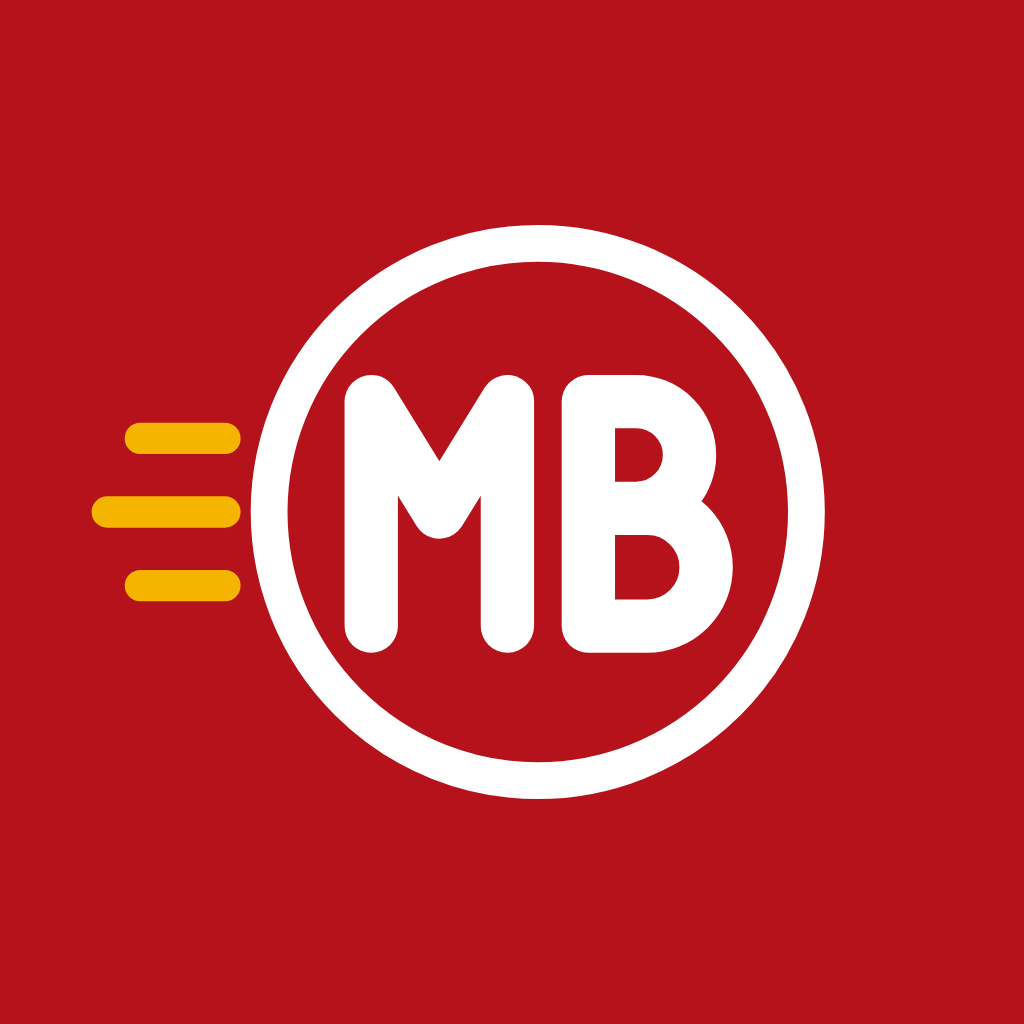
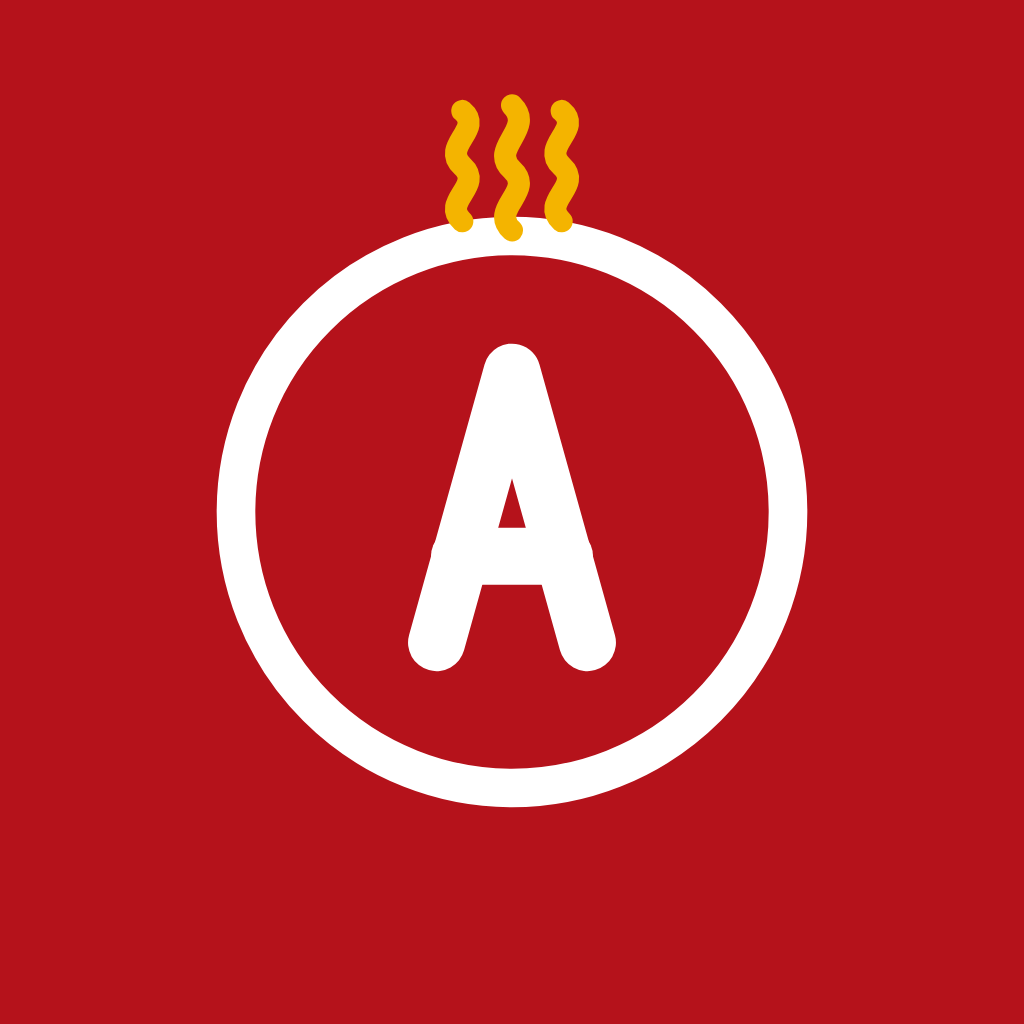
Marca do cliente: símbolo e logótipo da Cozinha da Alexandra
Sistema de marca (assinatura que se decompõe), desenhado em código:
- Símbolo: anel (tacho visto de cima) + monograma "A" + vapor dourado
  (comida quente de casa), substituindo o MB + linhas de velocidade.
- Logótipo horizontal "Cozinha da Alexandra" com "Alexandra" em
  destaque e "entregue por Manda Bué" como endosso discreto.
- Versões: ícone, ícone adaptativo Android (fundo/frente/mono),
  splash, favicon do cliente; peças em docs/marca.

Pipeline: gerar.py (SVG + lista.json) + render.js (Chromium/Playwright).
Assets do operador mantêm a marca MB, inalterados.

Claude-Session: https://claude.ai/code/session_012YAn7mGDrLwbXxtn7pEh3R

Changed region(s): [[0.0938, 0.0938, 0.8125, 0.8125], [0.5938, 0.7188, 0.625, 0.75], [0.5938, 0.25, 0.625, 0.2812]]

diff --git a/docs/marca/render.js b/docs/marca/render.js
@@ -1,0 +1,29 @@
+// Rasteriza os SVG de lista.json para PNG com o Chromium (transparência correta).
+const fs = require('fs');
+const path = require('path');
+const { chromium } = require('playwright');
+
+(async () => {
+  const lista = JSON.parse(fs.readFileSync('lista.json', 'utf8'));
+  const browser = await chromium.launch();
+  const page = await browser.newPage({ deviceScaleFactor: 1 });
+  for (const item of lista) {
+    const svg = fs.readFileSync(item.svg, 'utf8');
+    // Dimensões em px: 'tamanho' (quadrado) ou as do próprio SVG (logótipo 1600x480).
+    const m = svg.match(/width="(\d+)" height="(\d+)"/);
+    const w = item.tamanho || parseInt(m[1], 10);
+    const h = item.tamanho || parseInt(m[2], 10);
+    await page.setViewportSize({ width: w, height: h });
+    await page.setContent(
+      `<!doctype html><html><head><meta charset="utf-8"><style>
+        *{margin:0;padding:0}html,body{width:${w}px;height:${h}px;background:transparent}
+        svg{display:block;width:${w}px;height:${h}px}
+      </style></head><body>${svg}</body></html>`,
+      { waitUntil: 'networkidle' }
+    );
+    fs.mkdirSync(path.dirname(item.png), { recursive: true });
+    await page.screenshot({ path: item.png, omitBackground: true, clip: { x: 0, y: 0, width: w, height: h } });
+    console.log(item.png, `${w}x${h}`);
+  }
+  await browser.close();
+})();

diff --git a/docs/marca/gerar.py b/docs/marca/gerar.py
@@ -1,8 +1,12 @@
-# Marca Manda Bué: prato (anel) + monograma MB em traço contínuo + linhas de velocidade douradas.
-VERMELHO='#B5121B'; CARVAO='#1F1A17'; BRANCO='#FFFFFF'; DOURADO='#F4B400'
+# Marcas das apps.
+# Cliente — Cozinha da Alexandra: anel (tacho/prato visto de cima) + monograma "A"
+#   em traço contínuo + vapor dourado (comida quente de casa).
+# Operador — Manda Bué: anel + monograma "MB" + linhas de velocidade douradas (entrega).
+VERMELHO = '#B5121B'; CARVAO = '#1F1A17'; BRANCO = '#FFFFFF'; DOURADO = '#F4B400'; SUAVE = '#5F6368'
+
 
 def marca(anel=BRANCO, letras=BRANCO, linhas=DOURADO):
-    # tudo desenhado numa área de 1024, centrado em (512,512)
+    """Manda Bué (operador): anel + MB + linhas de velocidade. Área 1024, centro (512,512)."""
     return f'''
   <g fill="none" stroke-linecap="round" stroke-linejoin="round">
     <circle cx="540" cy="512" r="292" stroke="{anel}" stroke-width="40"/>
@@ -11,35 +15,66 @@ def marca(anel=BRANCO, letras=BRANCO, linhas=DOURADO):
     <path d="M108 432 H200 M72 512 H200 M108 592 H200" stroke="{linhas}" stroke-width="34"/>
   </g>'''
 
+
+def marca_alexandra(anel=BRANCO, letra=BRANCO, vapor=DOURADO):
+    """Cozinha da Alexandra (cliente): anel + "A" + vapor. Composição centrada em (512,512)."""
+    return f'''
+  <g fill="none" stroke-linecap="round" stroke-linejoin="round">
+    <circle cx="512" cy="512" r="300" stroke="{anel}" stroke-width="42"/>
+    <path d="M430 654 L512 360 L594 654" stroke="{letra}" stroke-width="62"/>
+    <path d="M455 560 H569" stroke="{letra}" stroke-width="62"/>
+    <path d="M458 196 C434 174 482 158 458 136 C434 114 482 96 458 76" stroke="{vapor}" stroke-width="24"/>
+    <path d="M512 206 C486 182 538 164 512 140 C486 116 538 96 512 70" stroke="{vapor}" stroke-width="24"/>
+    <path d="M566 196 C542 174 590 158 566 136 C542 114 590 96 566 76" stroke="{vapor}" stroke-width="24"/>
+  </g>'''
+
+
 def svg(conteudo, fundo=None, escala=1.0, tamanho=1024):
     f = f'<rect width="1024" height="1024" fill="{fundo}"/>' if fundo else ''
-    t = f'translate({512*(1-escala)} {512*(1-escala)}) scale({escala})'
+    t = f'translate({512 * (1 - escala)} {512 * (1 - escala)}) scale({escala})'
     return f'<svg xmlns="http://www.w3.org/2000/svg" width="{tamanho}" height="{tamanho}" viewBox="0 0 1024 1024">{f}<g transform="{t}">{conteudo}</g></svg>'
 
-def logotipo_horizontal(fundo=None, cor_texto=CARVAO):
-    # marca num quadrado vermelho arredondado + nome
-    m = svg(marca(), VERMELHO, 0.86).replace('<svg xmlns="http://www.w3.org/2000/svg" width="1024" height="1024" viewBox="0 0 1024 1024">','').replace('</svg>','')
+
+def logotipo_alexandra(fundo=None):
+    """Logótipo horizontal da Cozinha da Alexandra: símbolo num quadrado vermelho + nome."""
+    m = (svg(marca_alexandra(), VERMELHO, 0.86)
+         .replace('<svg xmlns="http://www.w3.org/2000/svg" width="1024" height="1024" viewBox="0 0 1024 1024">', '')
+         .replace('</svg>', ''))
     f = f'<rect width="1600" height="480" fill="{fundo}"/>' if fundo else ''
+    fonte = 'Liberation Sans, Arial, Helvetica, sans-serif'
     return f'''<svg xmlns="http://www.w3.org/2000/svg" width="1600" height="480" viewBox="0 0 1600 480">{f}
   <defs><clipPath id="c"><rect x="40" y="40" width="400" height="400" rx="88"/></clipPath></defs>
   <g clip-path="url(#c)"><g transform="translate(40 40) scale(0.390625)">{m}</g></g>
-  <text x="500" y="262" font-family="Liberation Sans, Arial, Helvetica, sans-serif" font-weight="700" font-size="150" fill="{cor_texto}" letter-spacing="-3">Manda <tspan fill="{VERMELHO}">Bué</tspan></text>
-  <text x="506" y="352" font-family="Liberation Sans, Arial, Helvetica, sans-serif" font-size="58" fill="#5F6368" letter-spacing="10">DELIVERY ANGOLA</text>
+  <text x="500" y="214" font-family="{fonte}" font-weight="600" font-size="84" fill="{CARVAO}" letter-spacing="-1">Cozinha da</text>
+  <text x="500" y="348" font-family="{fonte}" font-weight="800" font-size="150" fill="{VERMELHO}" letter-spacing="-3">Alexandra</text>
+  <text x="506" y="408" font-family="{fonte}" font-size="40" fill="{SUAVE}" letter-spacing="6">ENTREGUE POR MANDA BUÉ</text>
 </svg>'''
 
+
 ficheiros = {}
-for app, fundo, anel in (('cliente', VERMELHO, BRANCO), ('operador', CARVAO, VERMELHO)):
-    m = marca(anel=anel)
-    ficheiros[f'{app}/icon.png'] = (svg(m, fundo, 0.92), 1024)
-    ficheiros[f'{app}/android-icon-background.png'] = (svg('', fundo), 512)
-    # zona segura do ícone adaptativo: ~66% do centro
-    ficheiros[f'{app}/android-icon-foreground.png'] = (svg(m, None, 0.72), 512)
-    ficheiros[f'{app}/android-icon-monochrome.png'] = (svg(marca(BRANCO, BRANCO, BRANCO), None, 0.72), 432)
-    ficheiros[f'{app}/splash-icon.png'] = (svg(marca(anel=BRANCO), None, 1.0), 1024)
-    ficheiros[f'{app}/favicon.png'] = (svg(m, fundo, 0.92), 48)
-ficheiros['marca/logotipo.png'] = (logotipo_horizontal(), None)
-ficheiros['marca/logotipo-fundo-claro.png'] = (logotipo_horizontal('#FFFFFF'), None)
-ficheiros['marca/simbolo.png'] = (svg(marca(), VERMELHO, 0.92), 1024)
+
+# Cliente — Cozinha da Alexandra
+ma = marca_alexandra()
+ficheiros['cliente/icon.png'] = (svg(ma, VERMELHO, 0.92), 1024)
+ficheiros['cliente/android-icon-background.png'] = (svg('', VERMELHO), 512)
+ficheiros['cliente/android-icon-foreground.png'] = (svg(ma, None, 0.72), 512)
+ficheiros['cliente/android-icon-monochrome.png'] = (svg(marca_alexandra(BRANCO, BRANCO, BRANCO), None, 0.72), 432)
+ficheiros['cliente/splash-icon.png'] = (svg(marca_alexandra(), None, 1.0), 1024)
+ficheiros['cliente/favicon.png'] = (svg(ma, VERMELHO, 0.92), 48)
+
+# Operador — Manda Bué (carvão)
+mo = marca(anel=VERMELHO)
+ficheiros['operador/icon.png'] = (svg(mo, CARVAO, 0.92), 1024)
+ficheiros['operador/android-icon-background.png'] = (svg('', CARVAO), 512)
+ficheiros['operador/android-icon-foreground.png'] = (svg(mo, None, 0.72), 512)
+ficheiros['operador/android-icon-monochrome.png'] = (svg(marca(BRANCO, BRANCO, BRANCO), None, 0.72), 432)
+ficheiros['operador/splash-icon.png'] = (svg(marca(anel=VERMELHO), None, 1.0), 1024)
+ficheiros['operador/favicon.png'] = (svg(mo, CARVAO, 0.92), 48)
+
+# Peças de marca (docs)
+ficheiros['marca/logotipo.png'] = (logotipo_alexandra(), None)
+ficheiros['marca/logotipo-fundo-claro.png'] = (logotipo_alexandra('#FFFFFF'), None)
+ficheiros['marca/simbolo.png'] = (svg(marca_alexandra(), VERMELHO, 0.92), 1024)
 ficheiros['marca/simbolo-operador.png'] = (svg(marca(anel=VERMELHO), CARVAO, 0.92), 1024)
 
 import json, os
@@ -49,7 +84,11 @@ for nome, (conteudo, tam) in ficheiros.items():
     caminho_svg = 'svg/' + nome.replace('/', '__').replace('.png', '.svg')
     open(caminho_svg, 'w').write(conteudo)
     lista.append({'svg': caminho_svg, 'png': 'out/' + nome, 'tamanho': tam})
-open('svg/logotipo.svg','w').write(logotipo_horizontal())
-open('svg/simbolo.svg','w').write(svg(marca(), VERMELHO, 0.92))
+# SVGs vetoriais de referência
+open('svg/logotipo.svg', 'w').write(logotipo_alexandra())
+open('svg/simbolo.svg', 'w').write(svg(marca_alexandra(), VERMELHO, 0.92))
+open('simbolo.svg', 'w').write(svg(marca_alexandra(), VERMELHO, 0.92))
+open('simbolo-icone.svg', 'w').write(svg(marca_alexandra(), VERMELHO, 0.92))
+open('logotipo.svg', 'w').write(logotipo_alexandra())
 json.dump(lista, open('lista.json', 'w'), indent=1)
 print(len(lista), 'ficheiros')

diff --git a/docs/marca/README.md b/docs/marca/README.md
@@ -1,19 +1,30 @@
-# Marca Manda Bué
+# Marca
 
-Símbolo: um prato visto de cima (anel) com o monograma **MB** em traço contínuo e três linhas de
-velocidade douradas à esquerda — comida entregue depressa. As cores (vermelho, preto/carvão e dourado)
-lembram a bandeira de Angola sem a copiar.
+Há duas assinaturas, uma por app, com a mesma linguagem gráfica (anel = tacho/prato visto de cima,
+traço contínuo, dourado de realce) e as cores que lembram a bandeira de Angola sem a copiar
+(vermelho, carvão e dourado).
+
+- **Cliente — Cozinha da Alexandra:** anel com o monograma **A** (de Alexandra) ao centro e **vapor
+  dourado** a subir — comida quente de casa. "Manda Bué" aparece só como endosso discreto
+  ("entregue por Manda Bué"), nunca com símbolo próprio a competir.
+- **Operador — Manda Bué:** anel com o monograma **MB** e três **linhas de velocidade** douradas à
+  esquerda — a camada de logística/entrega.
 
 | Ficheiro | Uso |
 |---|---|
-| `simbolo.svg` / `simbolo.png` | Símbolo da app do cliente (fundo vermelho) |
-| `simbolo-operador.png` | Símbolo da app do operador (fundo carvão, anel vermelho) |
-| `logotipo.svg` / `logotipo.png` | Logótipo horizontal, fundo transparente |
+| `simbolo.svg` / `simbolo.png` | Símbolo da app do cliente — Cozinha da Alexandra (fundo vermelho) |
+| `simbolo-operador.png` | Símbolo da app do operador — Manda Bué (fundo carvão, anel vermelho) |
+| `logotipo.svg` / `logotipo.png` | Logótipo horizontal da Cozinha da Alexandra, fundo transparente |
 | `logotipo-fundo-claro.png` | Logótipo horizontal sobre branco |
-| `simbolo-icone.svg` | Fonte do ícone das apps (1024 × 1024) |
+| `simbolo-icone.svg` | Fonte do ícone da app do cliente (1024 × 1024) |
 
-Os ícones, o ícone adaptativo do Android (zona segura de 72 %) e o splash das apps estão em
-`apps/*/assets/` e foram gerados a partir destes desenhos.
+Os desenhos são gerados por `gerar.py` (produz os SVG + `lista.json`) e rasterizados por `render.js`
+com o Chromium/Playwright (`node render.js`, transparência correta). Os ícones, o ícone adaptativo do
+Android (zona segura de 72 %) e o splash das apps estão em `apps/*/assets/`, gerados a partir destes
+desenhos. Os assets do operador mantêm a marca MB e não são alterados aqui.
+
+> Logótipo provisório desenhado em código. Quando houver a versão definitiva de um designer (ou um
+> logótipo que a Alexandra já use), substituir mantendo os nomes dos ficheiros.
 
 ## Cores
 
@@ -24,7 +35,7 @@ Os ícones, o ícone adaptativo do Android (zona segura de 72 %) e o splash das 
 | Marca clara | `#FBE9EA` | Botões leves ("Adicionar"), texto vermelho por cima: 5,85:1 |
 | Carvão | `#1F1A17` | Fundo da app do operador e do seu ícone |
 | Dourado (gráfico) | `#B07800` | Estrelas e molduras sobre branco: 3,8:1 |
-| Dourado (fundo) | `#F4B400` | Selos ("Prato do dia"), sempre com texto escuro: 9,4:1; linhas de velocidade do símbolo |
+| Dourado (fundo) | `#F4B400` | Selos ("Prato do dia"), sempre com texto escuro: 9,4:1; vapor (cliente) e linhas de velocidade (operador) dos símbolos |
 | Texto | `#1A1A1A` | 17,4:1 |
 | Texto suave | `#5F6368` | 6,05:1 |
 | Contorno de campos | `#8A8A8A` | 3,45:1 (visível ao sol) |
